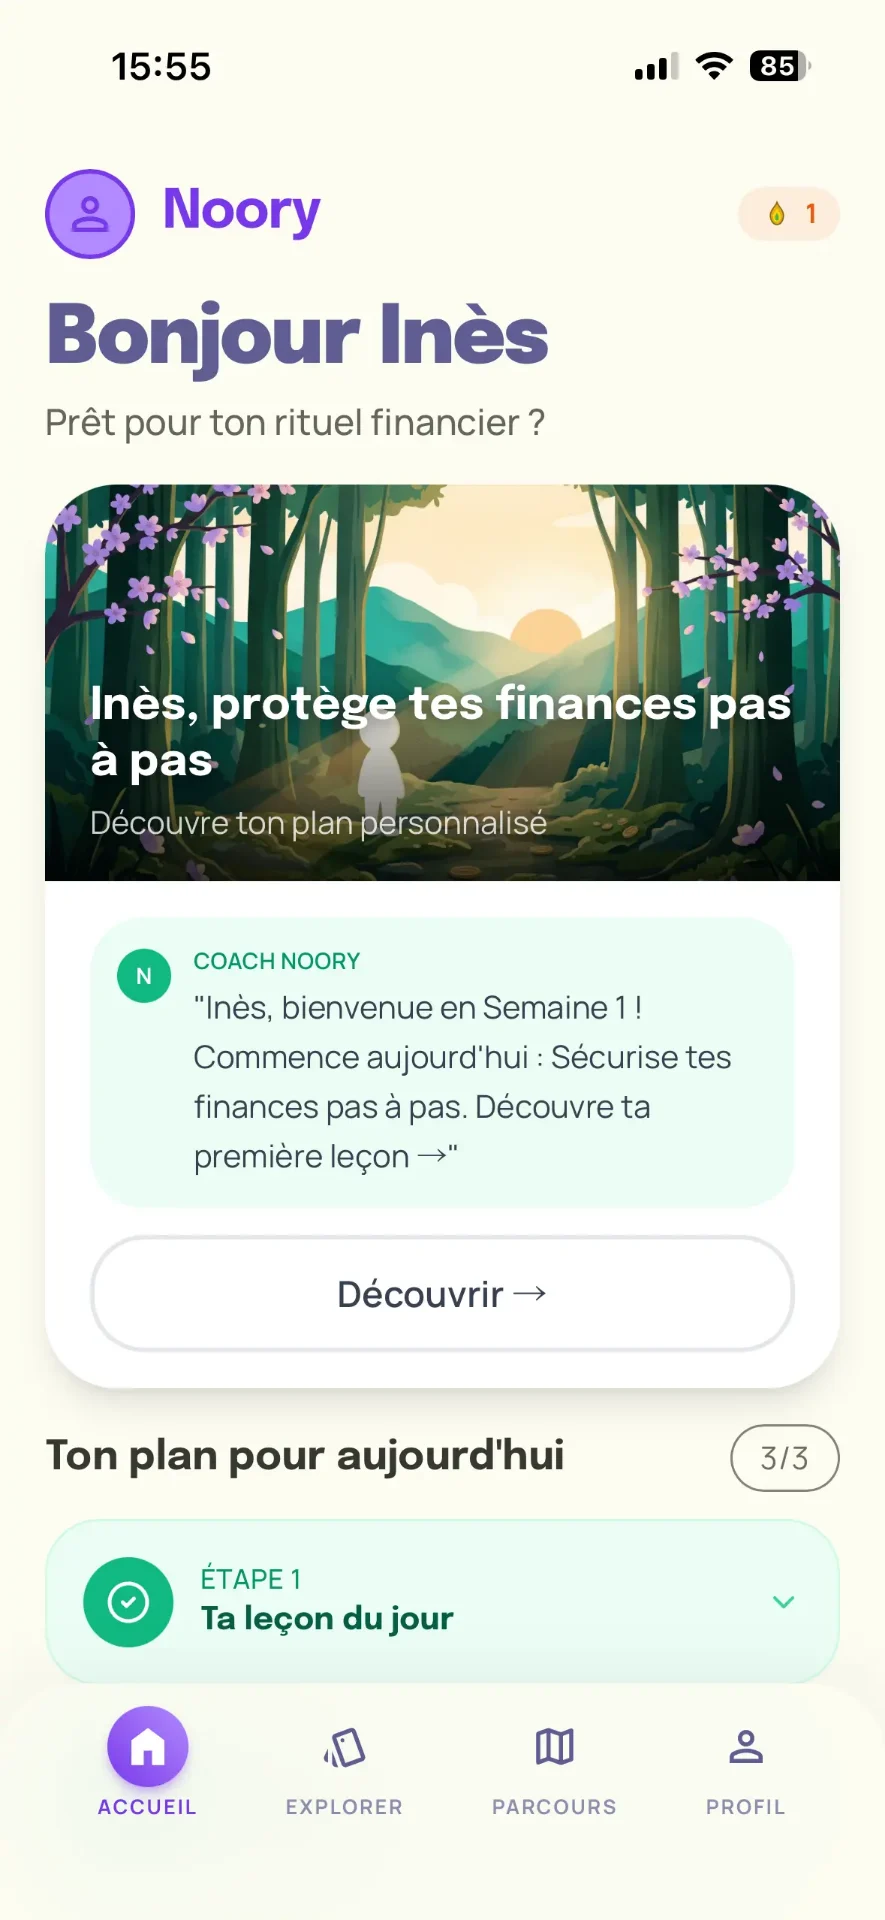
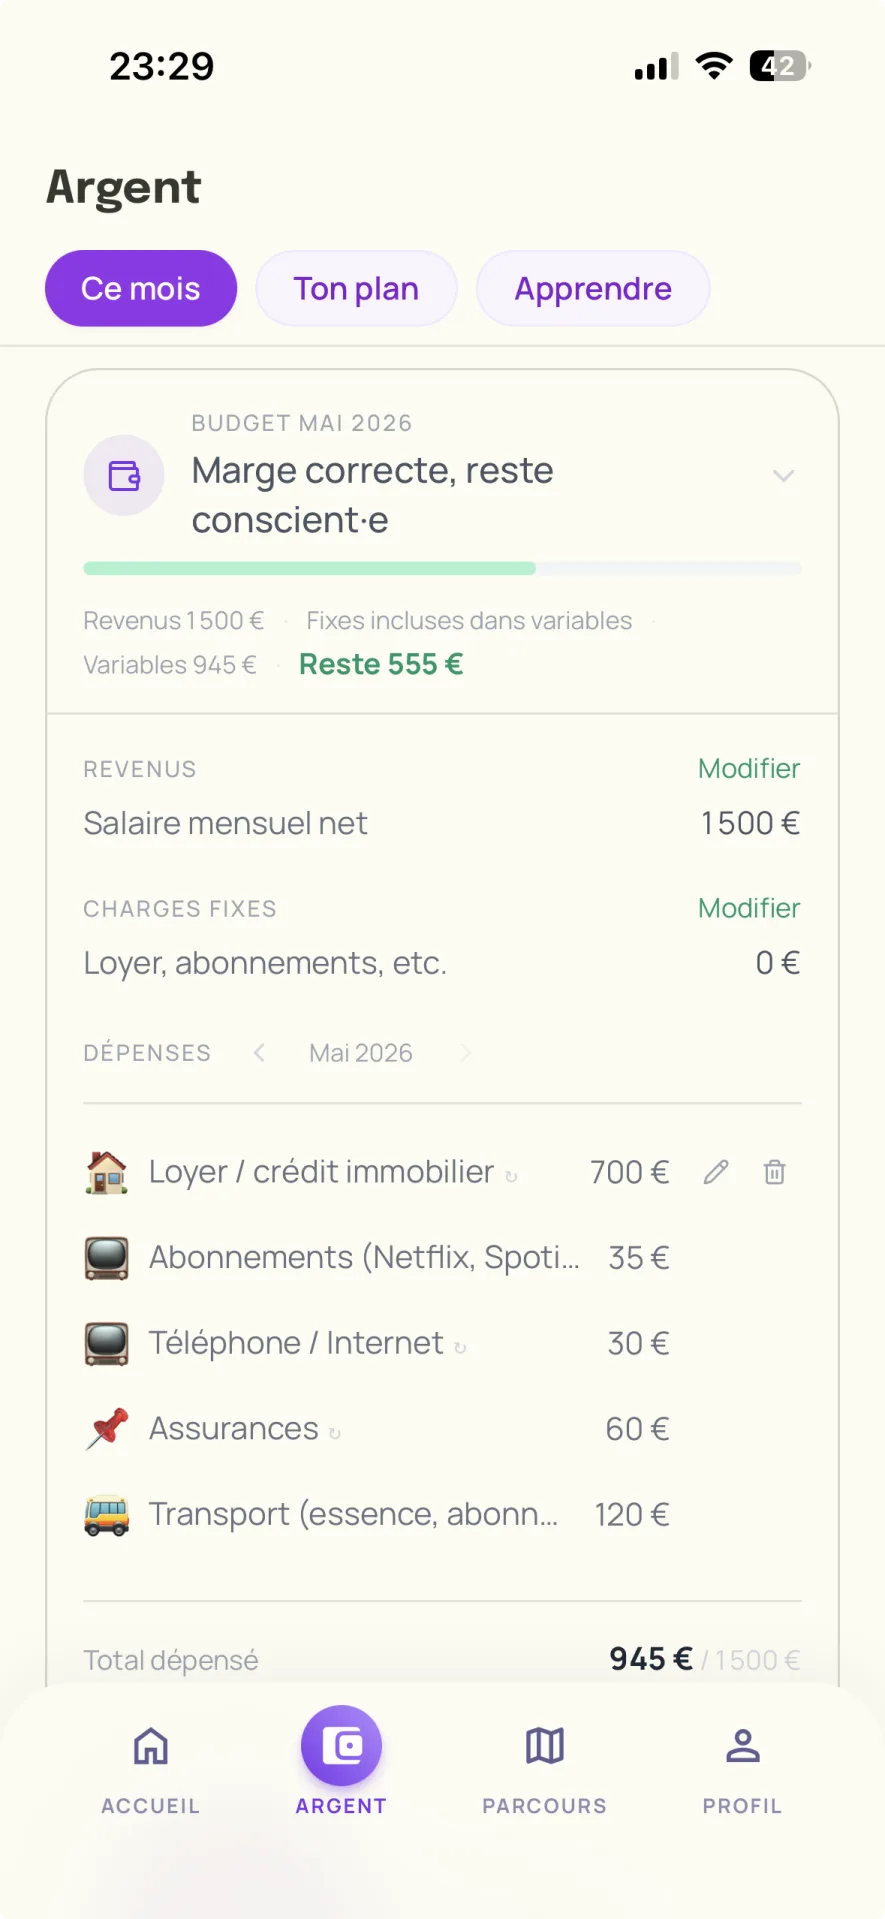
Remplacer le placeholder budget par la vraie capture (vue Argent/Ce mois)
- screen-budget.webp = vraie capture du budget (885x1919, webp 54KB)
- alt text mis a jour (budget du mois: revenus, charges, depenses, marge)
- retrait du TODO placeholder

diff --git a/src/components/BudgetSection.tsx b/src/components/BudgetSection.tsx
@@ -1,9 +1,6 @@
 import { PieChart, Wallet, TrendingUp, HeartHandshake } from "lucide-react";
 import IPhoneFrame from "@/components/IPhoneFrame";
 import AppStoreBadge from "@/components/AppStoreBadge";
-// TODO(Imad): screen-budget.webp est un PLACEHOLDER (copie de l'écran d'accueil).
-// Remplacer par une vraie capture du budget (vue ACCUEIL : revenus/charges/dépenses
-// + donut Besoin/Confort/Plaisir) AVANT de déployer en prod.
 import screenBudget from "@/assets/screen-budget.webp";
 
 const points = [
@@ -55,7 +52,7 @@ const BudgetSection = () => {
               <IPhoneFrame className="relative z-10 w-56 md:w-64 lg:w-72">
                 <img
                   src={screenBudget}
-                  alt="Noory — budget comportemental : répartition Besoin, Confort, Plaisir et suivi des dépenses du mois"
+                  alt="Noory — budget du mois dans l'app : revenus, charges fixes, suivi des dépenses et marge restante"
                   className="w-full"
                 />
               </IPhoneFrame>
